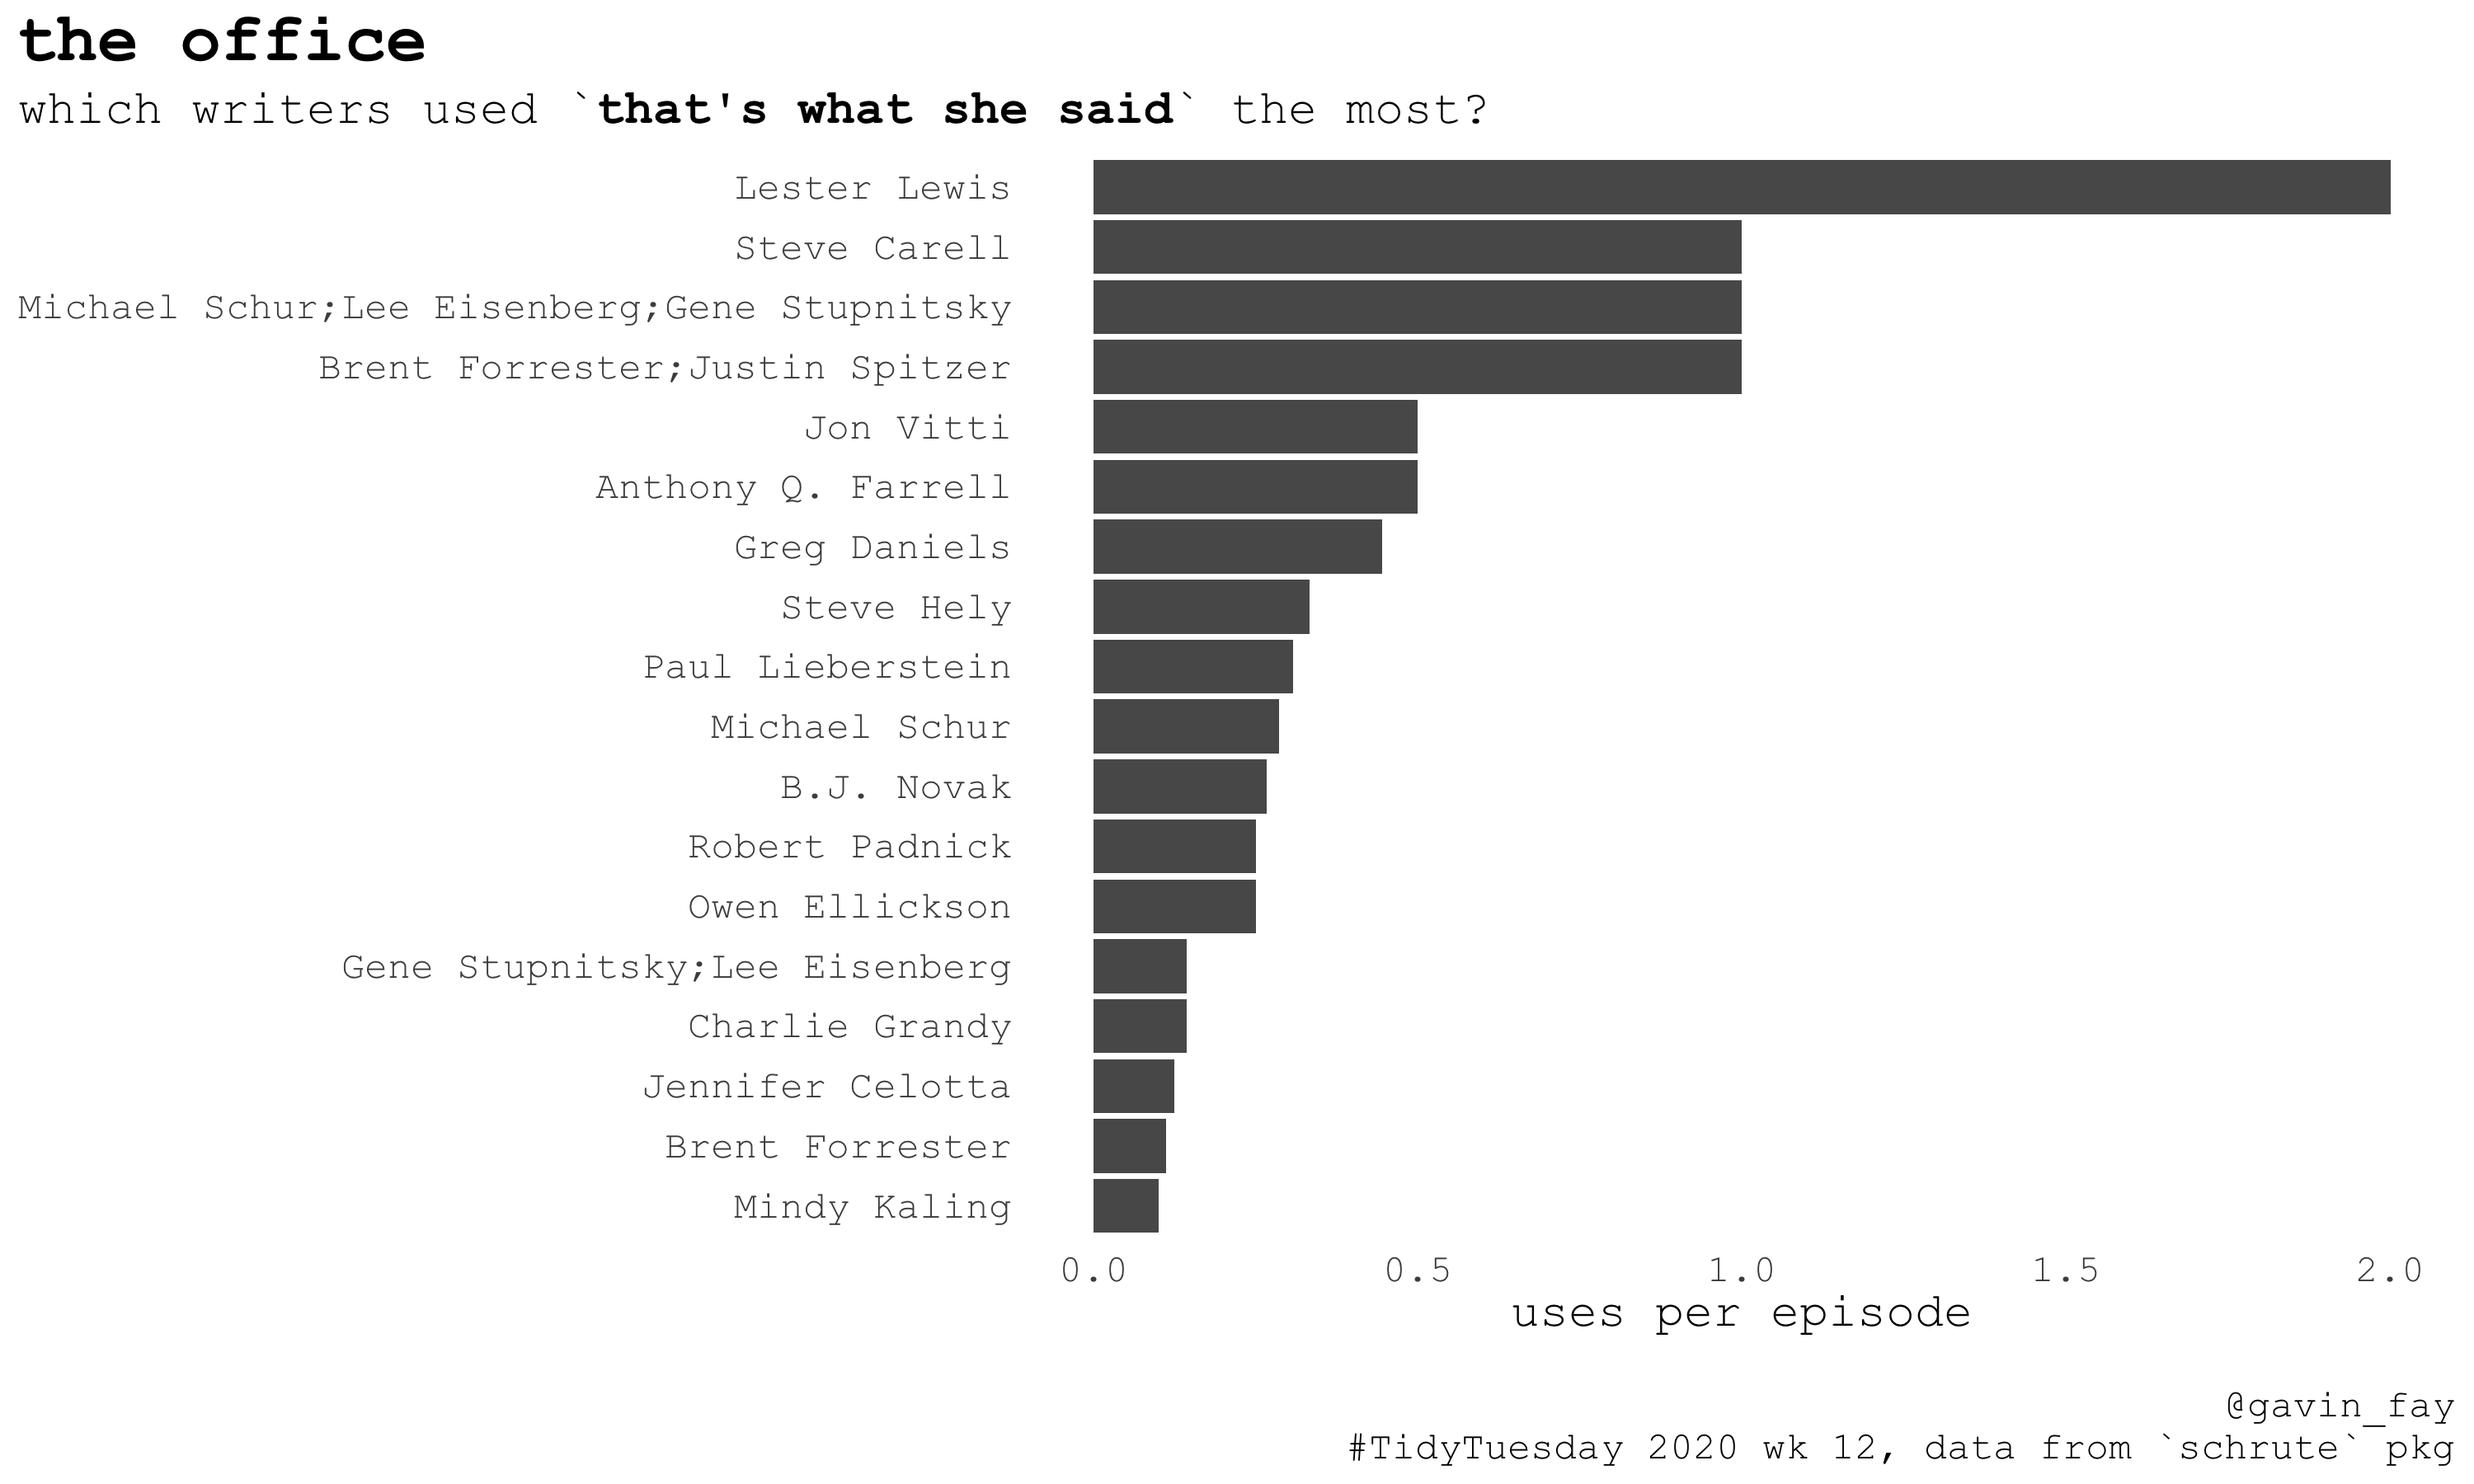
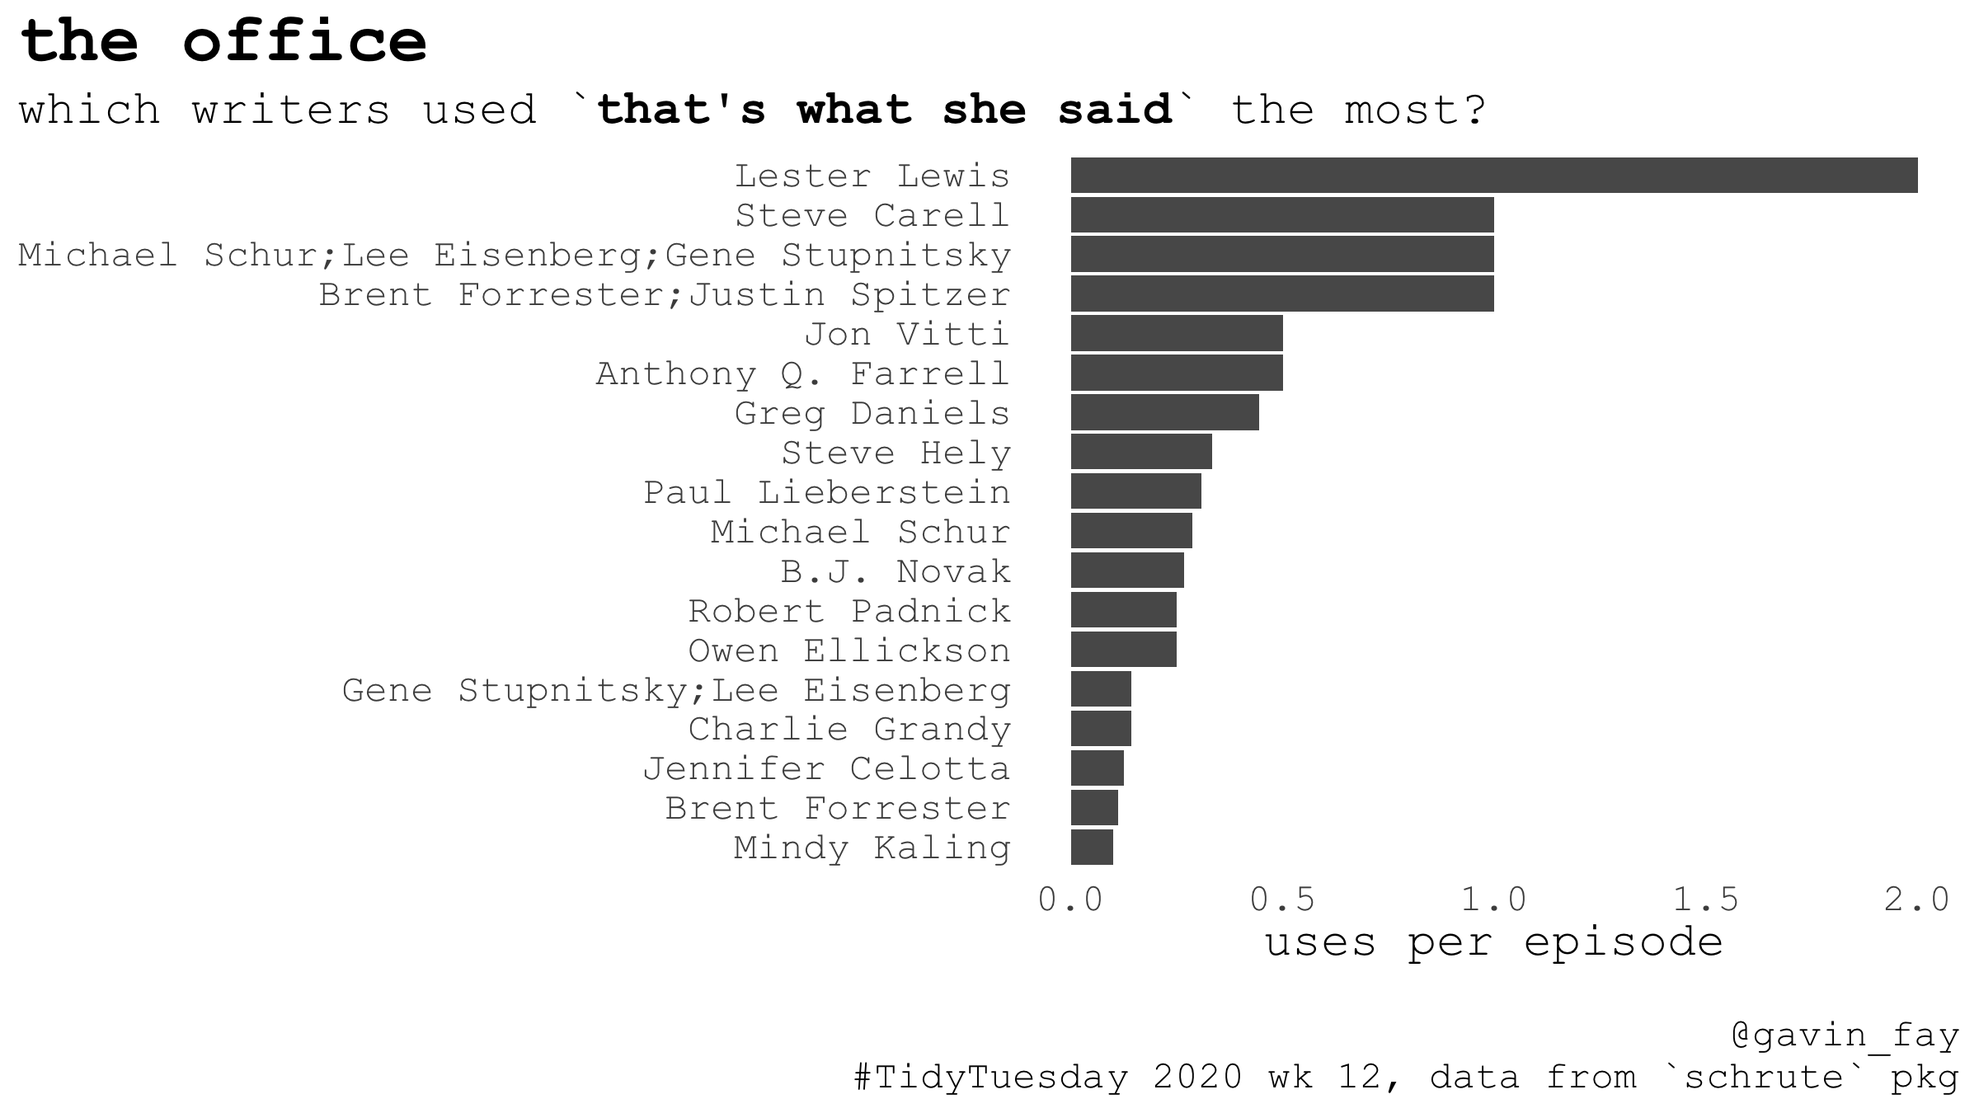
fix img dimensions

diff --git a/schrute.html b/schrute.html
@@ -451,7 +451,7 @@ twss_plot &lt;- ggplot(twss_writers,
               caption = &quot;\n@gavin_fay\n#TidyTuesday 2020 wk 12, data from `schrute` pkg&quot;)
 
 
-png('twss.png',width = 10,height=6,units = 'in',res=300)
+png('twss.png',width = 8,height=4.5,units = 'in',res=300)
 twss_plot
 dev.off()</code></pre>
 <pre><code>## quartz_off_screen 
